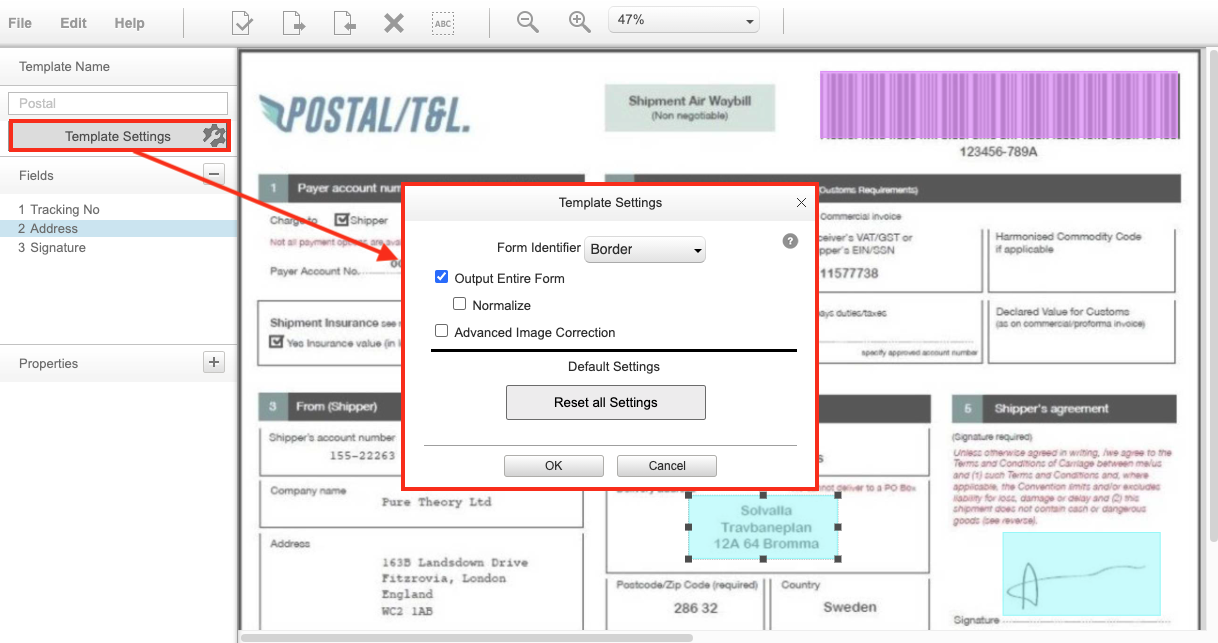
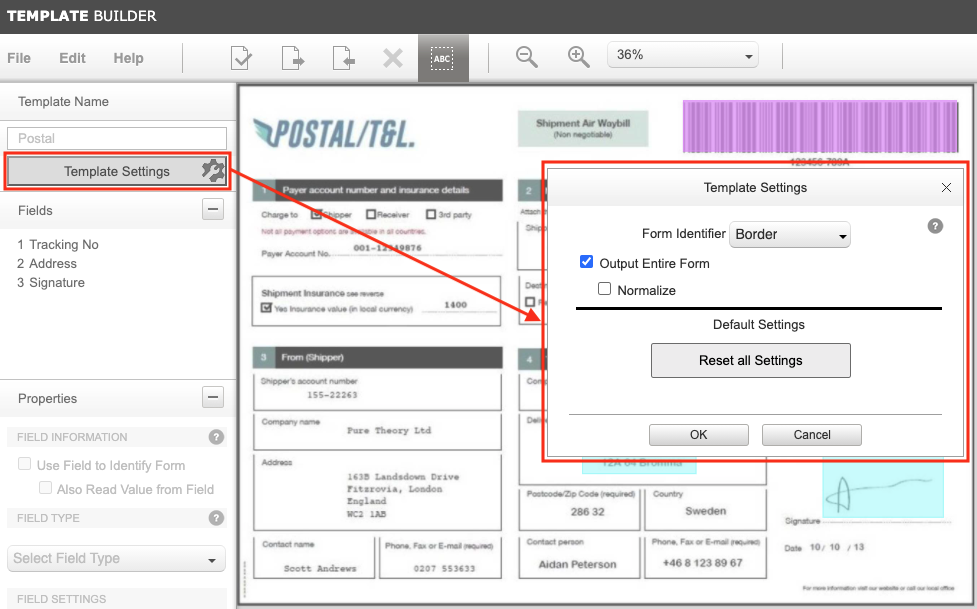
[TUT-49048] DW - Template Builder template settings

diff --git a/datawedge/11-2/guide/templatebuilder/index.html b/datawedge/11-2/guide/templatebuilder/index.html
@@ -668,7 +668,7 @@ _Click image to enlarge_
 
 <p>The Template Settings panel is used to configure settings such as form identifier, output, image correction and other settings that apply generally across the Template.</p>
 
-<p><strong>To access the Template Settings panel</strong>:</p>
+<p>To access the Template Settings panel:</p>
 
 <ol>
 <li>Log into the <a href="https://ng-simulscan.zebra.com">Template Builder web site</a>.</li>
@@ -694,10 +694,9 @@ _Click image to enlarge_
 
 <li><p><strong>Output Entire Form -</strong> output the entire form as an image, along with the extracted data. Enabling this option affects scanning performance.</p>
 
-<p></p><ul>
-<li><strong>Normalize -</strong> change the range of pixel intensity values to increase the contrast, e.g. in cases of poor contrast due to glare, prior to outputting the entire form</li></ul><p></p></li>
-
-<li><p><strong>Advanced Image Correction –</strong> enable image correction to parse targets that are slightly curved or crumpled.</p></li>
+<ul>
+<li><strong>Normalize -</strong> change the range of pixel intensity values to increase the contrast, e.g. in cases of poor contrast due to glare, prior to outputting the entire form
+<!-- - **Advanced Image Correction –** enable image correction to parse targets that are slightly curved or crumpled. --></li></ul></li>
 
 <li><p><strong>Reset all Settings -</strong> reset all template settings to the default settings.
 <br><br></p></li>
@@ -711,22 +710,24 @@ _Click image to enlarge_
 <h5 id="multibarcodetemplatesettings" class="anchor"><a class="heading-anchor" href="#multibarcodetemplatesettings"><span></span></a>MultiBarcode Template Settings</h5>
 
 <ul>
-<li><strong>Data Formatting:</strong>
-
+<li><p><strong>Data Formatting:</strong></p>
 
 <ul>
 <li><strong>Prefix to Data -</strong> enter the alphanumeric character to prepend to each data captured prior to output</li>
 
-<li><strong>Suffix to Data -</strong> enter the alphanumeric character to append to each data captured prior to output</li></ul>
-</li>
+<li><strong>Suffix to Data -</strong> enter the alphanumeric character to append to each data captured prior to output</li></ul></li>
 
-<li><strong>Variable Field Presence Template Timeout -</strong> applies to barcodes that are optional and not required to be present in the form (Mandatory Field is disabled). If the mandatory barcode is present with an optional barcode, then both are decoded. If the mandatory barcode is present without an optional barcode, then the mandatory barcode is decoded. After all mandatory barcodes are scanned, optional barcodes are then scanned, for which more time is required to process whether or not these optional barcodes are present. Select one of the following time-out levels:
-<ul>
-<li><b>Low -</b> sets the least amount of time to scan for optional barcodes. For example, 5 barcodes or less are present on the form, and the barcodes are close to each other and can be decoded in a single field of view without the need to move the device to decode.</li>
-<li><b>Medium -</b> sets in-between the least and most amount of time to scan for optional barcodes. For example, 10 barcodes or less are present on the form, and the barcodes are close to each other and cannot be decoded in a single field of view, requiring the device to be physically moved slightly while aiming to capture all Fields of interest.</li>
-<li><b>High -</b> sets the most amount of time to scan for optional barcodes. For example, 20 barcodes or less are present on the form and the barcodes are located far from each other, requiring some significant time for the device to be physically moved while aiming to capture each barcode.</li>
-</ul></li>
+<li><p><strong>Reset all Settings -</strong> reset all template settings to the default settings.</p></li>
 </ul>
+
+<!--
+- **Variable Field Presence Template Timeout -** applies to barcodes that are optional and not required to be present in the form (Mandatory Field is disabled). If the mandatory barcode is present with an optional barcode, then both are decoded. If the mandatory barcode is present without an optional barcode, then the mandatory barcode is decoded. After all mandatory barcodes are scanned, optional barcodes are then scanned, for which more time is required to process whether or not these optional barcodes are present. Select one of the following time-out levels:
+    <ul>
+    <li><b>Low -</b> sets the least amount of time to scan for optional barcodes. For example, 5 barcodes or less are present on the form, and the barcodes are close to each other and can be decoded in a single field of view without the need to move the device to decode.</li>
+    <li><b>Medium -</b> sets in-between the least and most amount of time to scan for optional barcodes. For example, 10 barcodes or less are present on the form, and the barcodes are close to each other and cannot be decoded in a single field of view, requiring the device to be physically moved slightly while aiming to capture all Fields of interest.</li>
+    <li><b>High -</b> sets the most amount of time to scan for optional barcodes. For example, 20 barcodes or less are present on the form and the barcodes are located far from each other, requiring some significant time for the device to be physically moved while aiming to capture each barcode.</li>
+    </ul>
+-->
 
 <p><img alt="" style="height:450px" src="templatesettings-multibarcode.png">
 <em>Template Settings for MultiBarcode.</em></p>
@@ -950,7 +951,7 @@ _Save Template after making modifications._
             <div class="container-fluid">
                 <div class="row">
                     <div class="col-sm-10">
-                        ZEBRA and the stylized Zebra head are trademarks of Zebra Technologies Corp., registered in many jurisdictions worldwide. All other trademarks are the property of their respective owners. ©2021 Zebra Technologies Corp. and/or its affiliates.<br><a href="https://www.zebra.com/us/en/about-zebra/company-information/legal.html">Legal</a> | <a href="https://www.zebra.com/us/en/about-zebra/company-information/legal/terms-of-use.html">Terms of Use</a> | <a href="https://www.zebra.com/us/en/about-zebra/company-information/legal/privacy-statement.html">Privacy Policy</a> 
+                        ZEBRA and the stylized Zebra head are trademarks of Zebra Technologies Corp., registered in many jurisdictions worldwide. All other trademarks are the property of their respective owners. ©2022 Zebra Technologies Corp. and/or its affiliates.<br><a href="https://www.zebra.com/us/en/about-zebra/company-information/legal.html">Legal</a> | <a href="https://www.zebra.com/us/en/about-zebra/company-information/legal/terms-of-use.html">Terms of Use</a> | <a href="https://www.zebra.com/us/en/about-zebra/company-information/legal/privacy-statement.html">Privacy Policy</a> 
                     </div>
                     <div class="col-sm-2">
                         <!--
@@ -999,22 +1000,7 @@ _Save Template after making modifications._
 
 </script> 
 
-<!-- 3/1/19 - comment out per Rob
-<script>
-    ChatraID = 'QDvZ76min4DhLW5vJ';
-    (function(d, w, c) {
-        var n = d.getElementsByTagName('script')[0],
-            s = d.createElement('script');
-        w[c] = w[c] || function() {
-            (w[c].q = w[c].q || []).push(arguments);
-        };
-        s.async = true;
-        s.src = (d.location.protocol === 'https:' ? 'https:': 'http:')
-            + '//call.chatra.io/chatra.js';
-        n.parentNode.insertBefore(s, n);
-    })(document, window, 'Chatra');
-</script>   
--->      
+    
 
 
 
